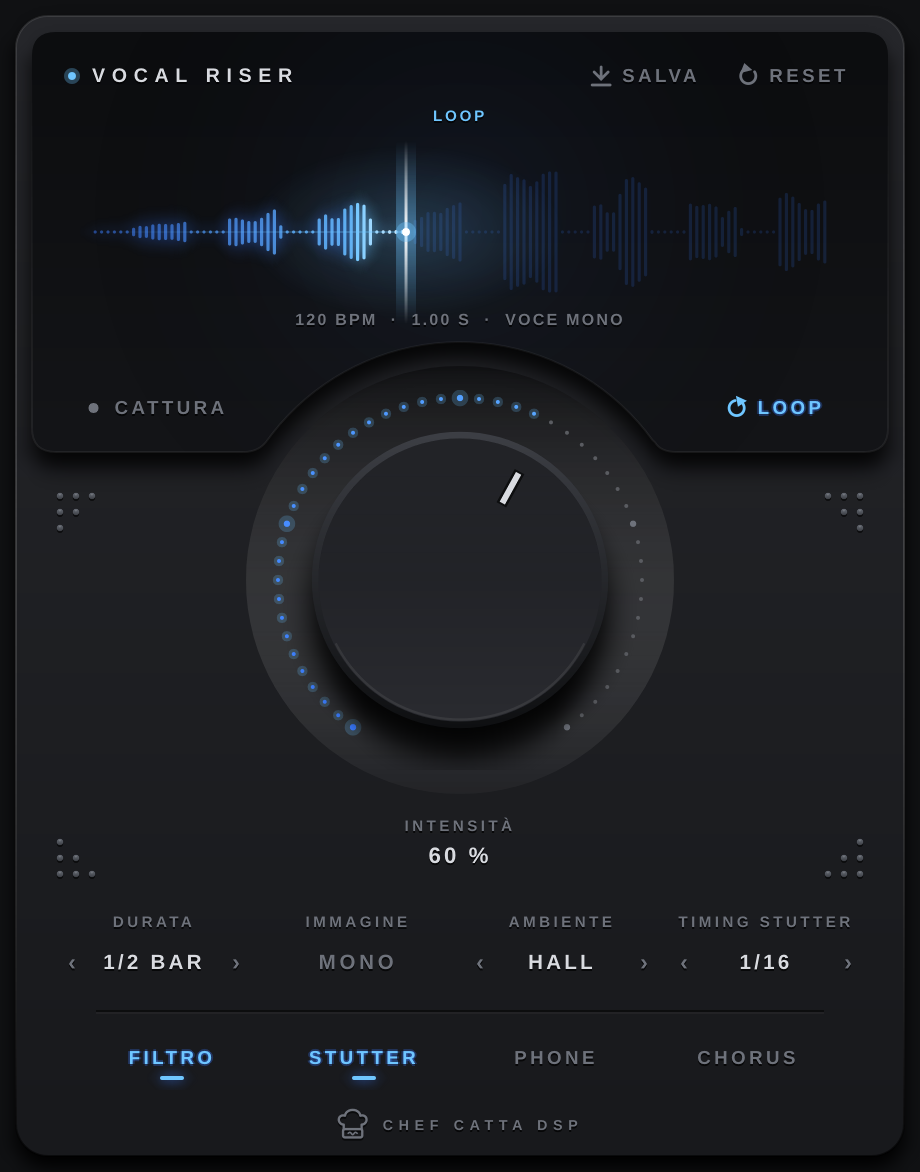
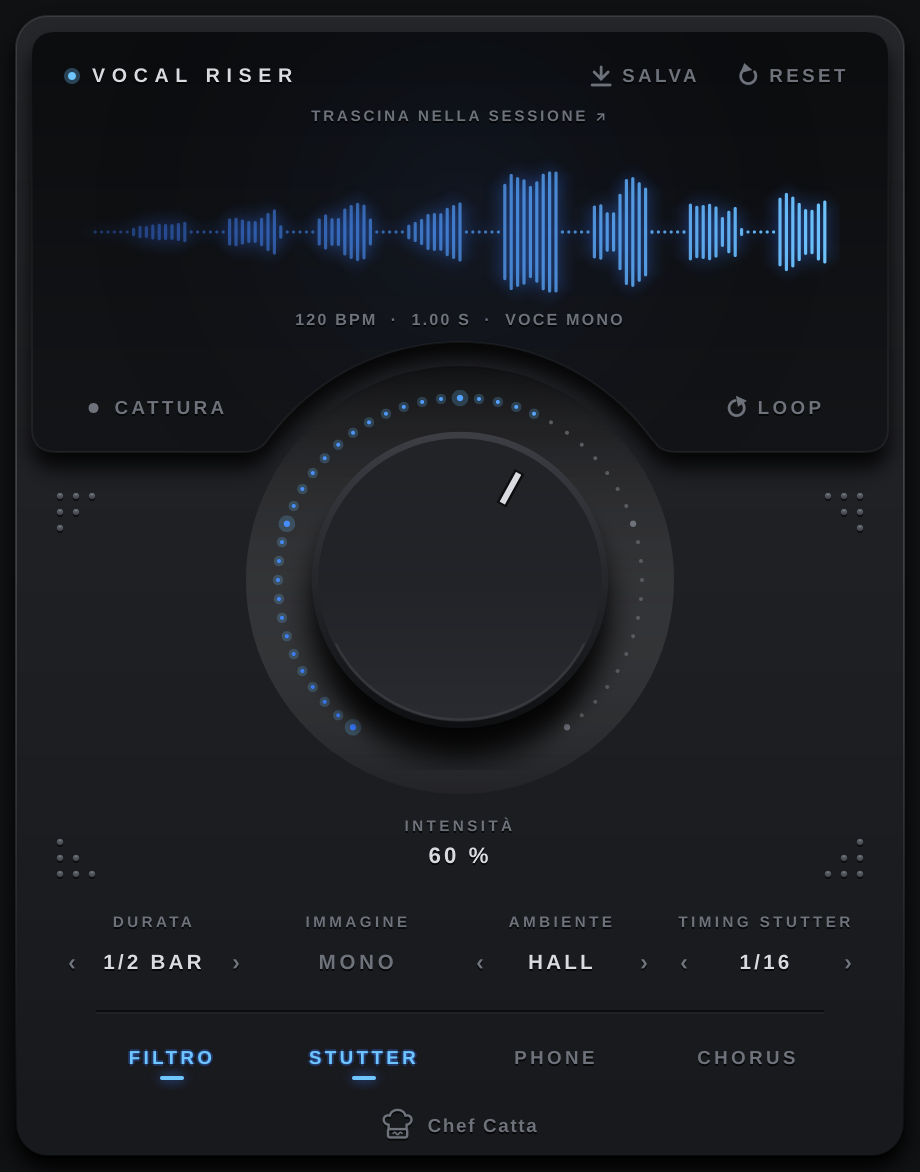
Sviluppatore Chef Catta, testo di stato visibile per intero
Claude-Session: https://claude.ai/code/session_01HaF7XKr7HpkpQMPQsrDZc5

diff --git a/Source/PluginEditor.cpp b/Source/PluginEditor.cpp
@@ -85,7 +85,7 @@ namespace
 }
 
 //==============================================================================
-// Logo chef catta dsp: cappello da chef stilizzato con un'onda sonora sulla fascia
+// Logo Chef Catta: cappello da chef stilizzato con un'onda sonora sulla fascia
 static void drawChefLogo (juce::Graphics& g, juce::Rectangle<float> r, juce::Colour line, juce::Colour wave)
 {
     const float w = r.getWidth(), h = r.getHeight();
@@ -574,7 +574,7 @@ void VocalRiserAudioProcessorEditor::paint (juce::Graphics& g)
     engravedText (g, "VOCAL RISER", titleR, juce::Justification::centredLeft, Colours::text);
 
     g.setFont (labelFont (8.5f, 0.16f));
-    engravedText (g, statusText(), { d.getCentreX() - 60.0f, d.getY() + 36.0f, 120.0f, 12.0f },
+    engravedText (g, statusText(), { d.getCentreX() - 140.0f, d.getY() + 36.0f, 280.0f, 12.0f },
                   juce::Justification::centred, proc.previewPlaying.load() ? Colours::accent2 : Colours::dim);
 
     // Alloggiamento morbido della manopola, dentro l'incavo
@@ -624,8 +624,8 @@ void VocalRiserAudioProcessorEditor::paint (juce::Graphics& g)
 
     // Firma dello sviluppatore
     {
-        const auto sigFont = labelFont (8.0f, 0.35f);
-        const juce::String sig ("CHEF CATTA DSP");
+        const auto sigFont = labelFont (10.5f, 0.08f);
+        const juce::String sig ("Chef Catta");
         const float tw = juce::GlyphArrangement::getStringWidth (sigFont, sig);
         const float logo = 16.0f, gap = 7.0f;
         const float x0 = shellR.getCentreX() - (logo + gap + tw) * 0.5f;

diff --git a/README.md b/README.md
@@ -1,4 +1,4 @@
-# Vocal Riser — chef catta dsp
+# Vocal Riser — Chef Catta
 
 Plugin (AU / VST3) per creare riser sulle voci in pochi secondi, direttamente in sessione.
 Il plugin **non modifica la traccia**: ascolta la voce, genera il riser e te lo fa trascinare nella timeline.
